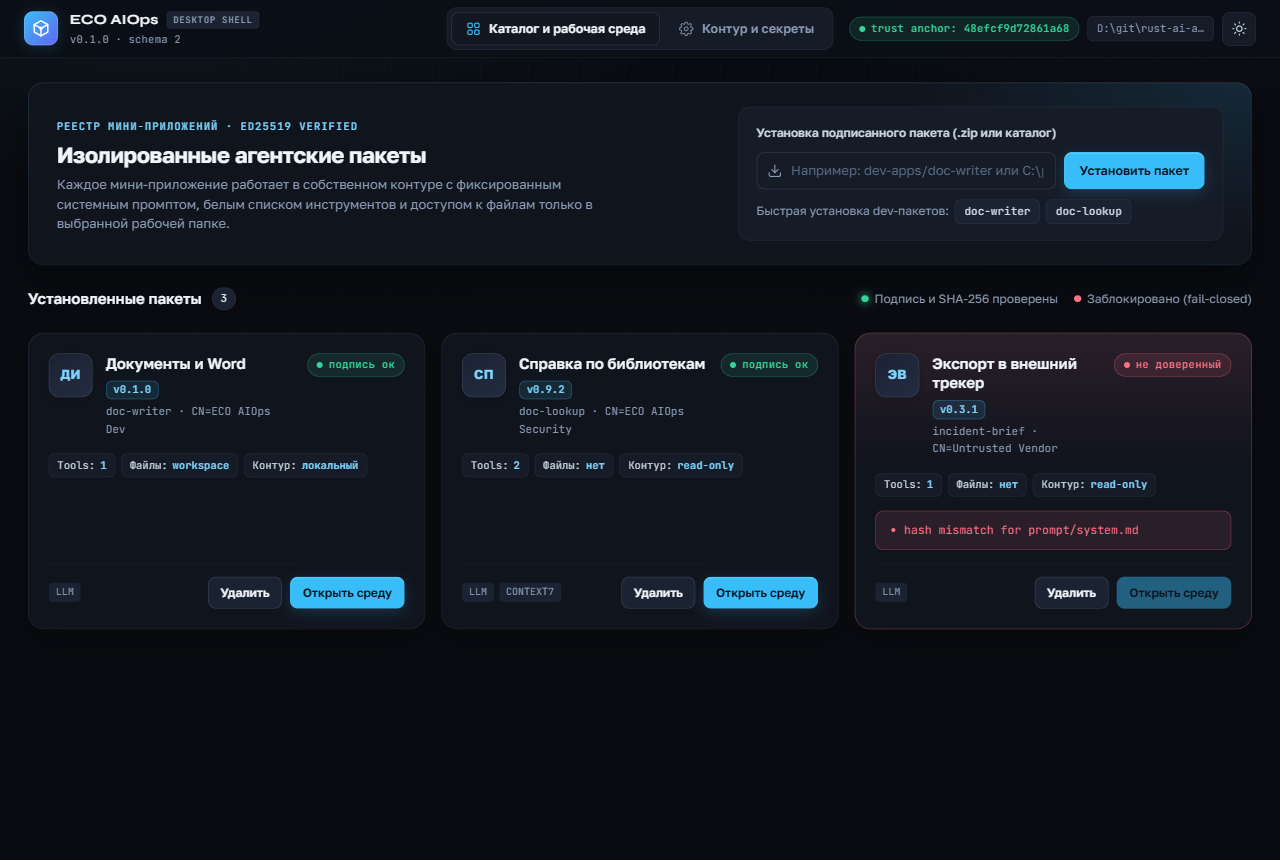
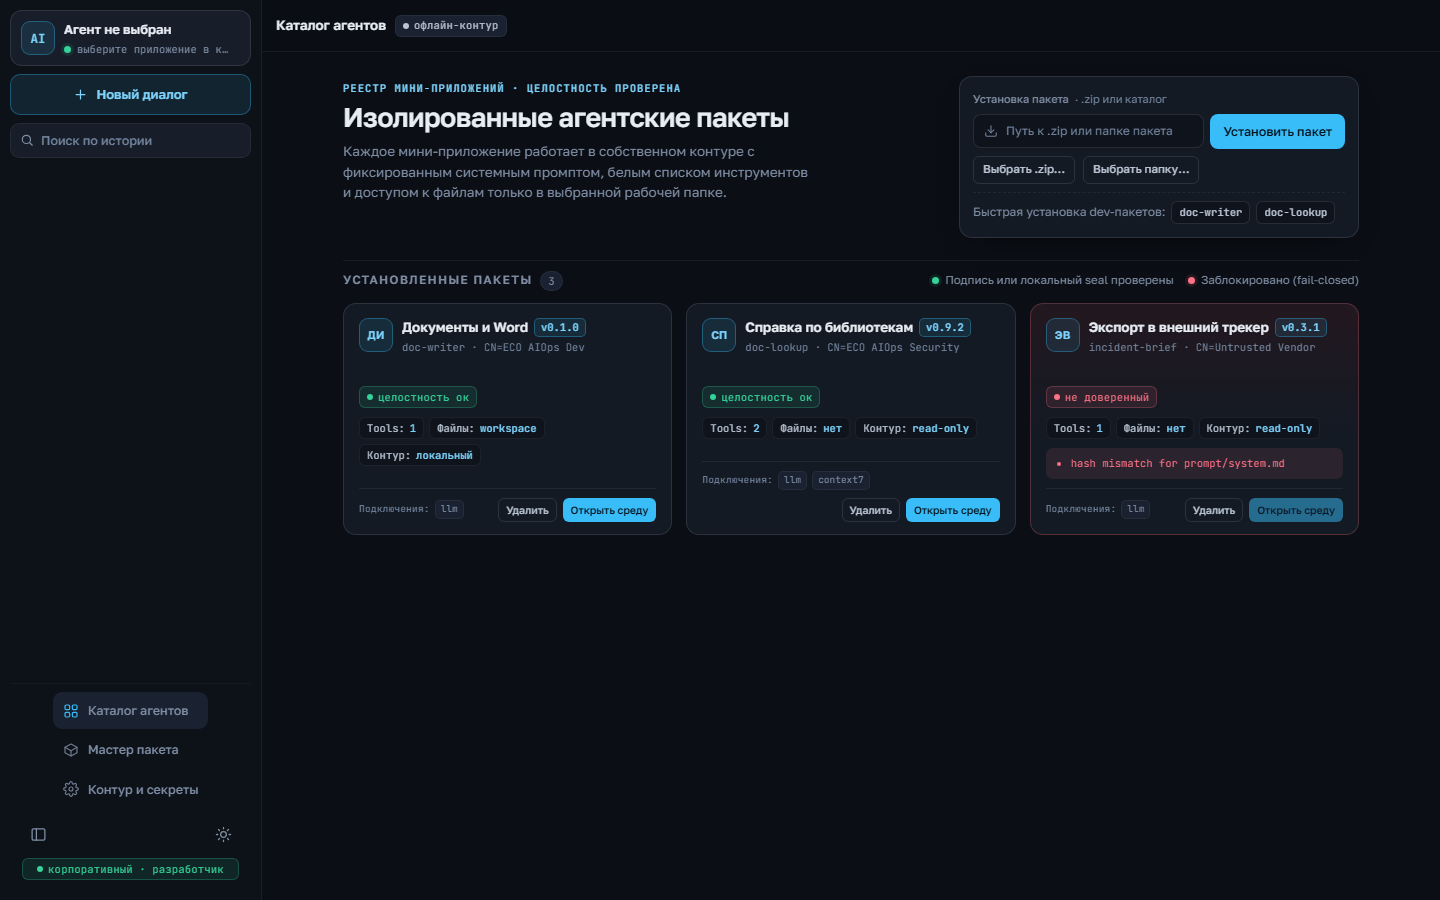
docs(readme): refresh previews and describe the 0.3.0 surfaces
- new dark screenshots of the design-next shell: chat with approval card, file chips, table, code and diagrams; catalog with three packages

- README: approval broker, answer rendering (tables, code, links, file chips), new chat shell, releases link; architecture block mentions tools and the shell

- fix: pre-wrap on message text turned block indentation into blank lines inside code blocks and diagrams

- smoke: code block must not gain phantom whitespace

diff --git a/src/styles.css b/src/styles.css
@@ -4934,3 +4934,9 @@ html[data-theme="light"] {
   color: var(--accent);
   text-decoration-color: var(--accent);
 }
+/* Rendered block markup must not inherit pre-wrap whitespace from the message. */
+.md-code,
+.md-table-wrap,
+.diagram-block {
+  white-space: normal;
+}

diff --git a/README.md b/README.md
@@ -9,6 +9,8 @@ sidecar, интерфейс — Tauri v2 + WebView2.
 > production-сертификата Authenticode, проверки на чистой машине и песочницы
 > процессов. Полный список — в `HANDOFF.md` §6 и §11.
 
+Релизы (снимки исходников для проверки): [github.com/neyara11/rust-ai-app/releases](https://github.com/neyara11/rust-ai-app/releases).
+
 ![Превью](preview-dark.png)
 
 Каталог подписанных пакетов:
@@ -34,8 +36,19 @@ sidecar, интерфейс — Tauri v2 + WebView2.
   задать значения глобально или отдельно для приложения; app-override приоритетнее.
 - **Private CA.** Для LLM-шлюза и MCP есть отдельные переключатели отключения проверки
   TLS-сертификата и имени хоста — только для закрытого контура и с явным предупреждением.
-- **Чат.** История, переключение и удаление чатов; live-стриминг reasoning/текста через
-  SSE; уровни reasoning; статистика ответов.
+- **Чат.** Оболочка в духе design-next: единый сайдбар с карточкой агента, поиском и
+  историей по датам (сегодня/вчера/на неделе), переименование сессии, сворачивание в
+  рельс (Ctrl+B) и быстрый поиск (Ctrl+K); live-стриминг reasoning/текста через SSE,
+  уровни reasoning, статистика ответов, стек уведомлений.
+- **Рендер ответов.** GFM-таблицы, блоки кода с языком, кнопкой «Копировать» и
+  офлайн-подсветкой (highlight.js + PowerShell), ссылки `http(s)`/`mailto`, которые
+  открываются системным обработчиком, а не внутри webview. Упоминания файлов рабочей
+  папки превращаются в чипы: открыть, показать в папке, сохранить копию.
+- **Подтверждения инструментов.** Для записи и запуска кода по умолчанию спрашивается
+  разрешение: разово, на текущий чат или постоянно для пакета. Постоянное разрешение
+  привязано к версии пакета, рабочей папке и хешу бинаря; любое действие пишется в
+  аудит, разрешение можно отозвать. Инструмент с бинарём пакета всегда считается
+  запуском кода, даже если манифест объявил его записью.
 - **Схемы и графики.** Mermaid и Chart.js работают офлайн из локальных vendor-файлов;
   есть исходник, сохранение SVG/PNG через системный диалог и явные ошибки рендера.
 - **Вложения.** Файл можно выбрать, перетащить в область чата или вставить из буфера
@@ -69,12 +82,12 @@ sidecar, интерфейс — Tauri v2 + WebView2.
 ## Архитектура
 
 ```
-┌────────────────────────────────────────────────────────────┐
-│ Tauri v2 shell (Rust) + WebView2                           │
-│  ├─ реестр подписанных пакетов                             │
-│  ├─ UI: каталог, чат, рабочая папка, настройки             │
-│  └─ stdio MCP gateway (--mcp-proxy app workspace)          │
-└───────────────┬───────────────────────────────┬────────────┘
+┌────────────────────────────────────────────────────────────────────┐
+│ Tauri v2 shell (Rust) + WebView2                                   │
+│  ├─ реестр подписанных пакетов                                     │
+│  ├─ UI: каталог, чат, инструменты, настройки (design-next shell)    │
+│  └─ stdio MCP gateway (--mcp-proxy app workspace)                   │
+└───────────────┬───────────────────────────────┬────────────────────┘
                 │ stdio                         │ HTTP
                 ▼                               ▼
         opencode sidecar                 LLM gateway
